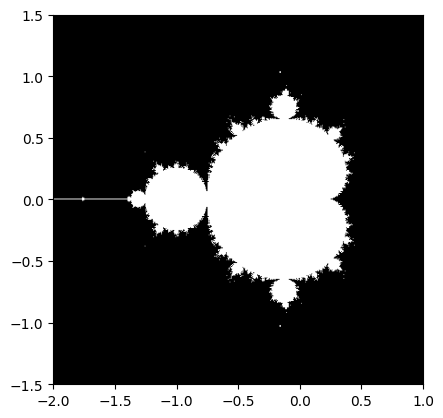
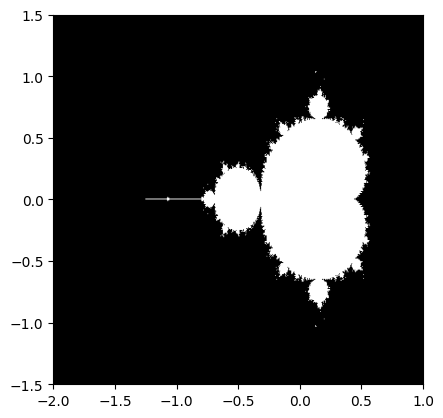
made me bigger

Changed region(s): [[0.1174, 0.2177, 0.851, 0.7464]]

diff --git a/public/notebooks/posts/post-a/index.html b/public/notebooks/posts/post-a/index.html
@@ -103,7 +103,7 @@
   "keywords": [
     
   ],
-  "articleBody": "Here, I compute the mendelbrot set. Source: https://scipy-lectures.org/intro/numpy/auto_examples/plot_mandelbrot.html\nimport numpy as np import matplotlib.pyplot as plt from numpy import newaxis def compute_mandelbrot(N_max, some_threshold, nx, ny): # A grid of c-values x = np.linspace(-2, 1, nx) y = np.linspace(-1.5, 1.5, ny) c = x[:,newaxis] + 1j*y[newaxis,:] # Mandelbrot iteration z = c for j in range(N_max): z = z**2 + c mandelbrot_set = (abs(z) \u003c some_threshold) return mandelbrot_set mandelbrot_set = compute_mandelbrot(50, 50., 601, 401) plt.imshow(mandelbrot_set.T, extent=[-2, 1, -1.5, 1.5]) plt.gray() plt.show() Console output (1/2):\n/var/folders/_w/fmxgjrxn3d7c7y4jpy6r65d00000gn/T/ipykernel_29120/2830912995.py:16: RuntimeWarning: overflow encountered in square z = z**2 + c /var/folders/_w/fmxgjrxn3d7c7y4jpy6r65d00000gn/T/ipykernel_29120/2830912995.py:16: RuntimeWarning: invalid value encountered in square z = z**2 + c Console output (2/2):\n",
+  "articleBody": "Here, I compute the mendelbrot set. Source: https://scipy-lectures.org/intro/numpy/auto_examples/plot_mandelbrot.html\nimport numpy as np import matplotlib.pyplot as plt from numpy import newaxis def compute_mandelbrot(N_max, some_threshold, nx, ny): # A grid of c-values x = np.linspace(-3, 1, nx) y = np.linspace(-1.5, 1.5, ny) c = x[:,newaxis] + 1j*y[newaxis,:] # Mandelbrot iteration z = c for j in range(N_max): z = z**2 + c mandelbrot_set = (abs(z) \u003c some_threshold) return mandelbrot_set mandelbrot_set = compute_mandelbrot(50, 50., 601, 401) plt.imshow(mandelbrot_set.T, extent=[-2, 1, -1.5, 1.5]) plt.gray() plt.show() Console output (1/2):\n/var/folders/_w/fmxgjrxn3d7c7y4jpy6r65d00000gn/T/ipykernel_39706/3854838847.py:16: RuntimeWarning: overflow encountered in square z = z**2 + c /var/folders/_w/fmxgjrxn3d7c7y4jpy6r65d00000gn/T/ipykernel_39706/3854838847.py:16: RuntimeWarning: invalid value encountered in square z = z**2 + c Console output (2/2):\n",
   "wordCount" : "109",
   "inLanguage": "en",
   "image": "http://localhost:1313/post-a/serialized/2-1.png","datePublished": "0001-01-01T00:00:00Z",
@@ -194,7 +194,7 @@
 </span></span><span style="display:flex;"><span>
 </span></span><span style="display:flex;"><span><span style="color:#66d9ef">def</span> <span style="color:#a6e22e">compute_mandelbrot</span>(N_max, some_threshold, nx, ny):
 </span></span><span style="display:flex;"><span>    <span style="color:#75715e"># A grid of c-values</span>
-</span></span><span style="display:flex;"><span>    x <span style="color:#f92672">=</span> np<span style="color:#f92672">.</span>linspace(<span style="color:#f92672">-</span><span style="color:#ae81ff">2</span>, <span style="color:#ae81ff">1</span>, nx)
+</span></span><span style="display:flex;"><span>    x <span style="color:#f92672">=</span> np<span style="color:#f92672">.</span>linspace(<span style="color:#f92672">-</span><span style="color:#ae81ff">3</span>, <span style="color:#ae81ff">1</span>, nx)
 </span></span><span style="display:flex;"><span>    y <span style="color:#f92672">=</span> np<span style="color:#f92672">.</span>linspace(<span style="color:#f92672">-</span><span style="color:#ae81ff">1.5</span>, <span style="color:#ae81ff">1.5</span>, ny)
 </span></span><span style="display:flex;"><span>
 </span></span><span style="display:flex;"><span>    c <span style="color:#f92672">=</span> x[:,newaxis] <span style="color:#f92672">+</span> <span style="color:#ae81ff">1</span>j<span style="color:#f92672">*</span>y[newaxis,:]
@@ -215,9 +215,9 @@
 </span></span><span style="display:flex;"><span>plt<span style="color:#f92672">.</span>show()
 </span></span></code></pre></div><!-- #region -->
 <p><strong>Console output (1/2):</strong></p>
-<div class="highlight"><pre tabindex="0" style="color:#f8f8f2;background-color:#272822;-moz-tab-size:4;-o-tab-size:4;tab-size:4;"><code class="language-txt" data-lang="txt"><span style="display:flex;"><span>/var/folders/_w/fmxgjrxn3d7c7y4jpy6r65d00000gn/T/ipykernel_29120/2830912995.py:16: RuntimeWarning: overflow encountered in square
+<div class="highlight"><pre tabindex="0" style="color:#f8f8f2;background-color:#272822;-moz-tab-size:4;-o-tab-size:4;tab-size:4;"><code class="language-txt" data-lang="txt"><span style="display:flex;"><span>/var/folders/_w/fmxgjrxn3d7c7y4jpy6r65d00000gn/T/ipykernel_39706/3854838847.py:16: RuntimeWarning: overflow encountered in square
 </span></span><span style="display:flex;"><span>  z = z**2 + c
-</span></span><span style="display:flex;"><span>/var/folders/_w/fmxgjrxn3d7c7y4jpy6r65d00000gn/T/ipykernel_29120/2830912995.py:16: RuntimeWarning: invalid value encountered in square
+</span></span><span style="display:flex;"><span>/var/folders/_w/fmxgjrxn3d7c7y4jpy6r65d00000gn/T/ipykernel_39706/3854838847.py:16: RuntimeWarning: invalid value encountered in square
 </span></span><span style="display:flex;"><span>  z = z**2 + c
 </span></span></code></pre></div><p><strong>Console output (2/2):</strong></p>
 <p><img loading="lazy" src="../../../post-a/serialized/2-1.png" alt="2-1"  />

diff --git a/public/dog/index.html b/public/dog/index.html
@@ -61,13 +61,11 @@
 <meta property="og:title" content="U&#43;1F415 is unicode for the dog emoji 🐕" />
 <meta property="og:description" content="" />
 <meta property="og:type" content="article" />
-<meta property="og:url" content="http://localhost:1313/dog/" />
-<meta property="og:image" content="http://localhost:1313/dogpic.png" /><meta property="article:section" content="" />
+<meta property="og:url" content="http://localhost:1313/dog/" /><meta property="article:section" content="" />
 
 
 
-<meta name="twitter:card" content="summary_large_image" />
-<meta name="twitter:image" content="http://localhost:1313/dogpic.png" />
+<meta name="twitter:card" content="summary"/>
 <meta name="twitter:title" content="U&#43;1F415 is unicode for the dog emoji 🐕"/>
 <meta name="twitter:description" content=""/>
 
@@ -99,7 +97,7 @@
   "articleBody": "",
   "wordCount" : "0",
   "inLanguage": "en",
-  "image":"http://localhost:1313/dogpic.png","datePublished": "0001-01-01T00:00:00Z",
+  "datePublished": "0001-01-01T00:00:00Z",
   "dateModified": "0001-01-01T00:00:00Z",
   "mainEntityOfPage": {
     "@type": "WebPage",
@@ -177,12 +175,6 @@
 
 </div>
   </header> 
-<figure class="entry-cover">
-        <img loading="eager" srcset="http://localhost:1313/dog/dogpic_hu4419030919382709101.png 360w ,http://localhost:1313/dog/dogpic.png 443w" 
-            sizes="(min-width: 768px) 720px, 100vw" src="http://localhost:1313/dog/dogpic.png" alt="" 
-            width="443" height="605">
-        
-</figure>
 
   <footer class="post-footer">
     <ul class="post-tags">

diff --git a/public/notebooks/index.html b/public/notebooks/index.html
@@ -147,7 +147,7 @@
   </header>
   <div class="entry-content">
     <p>Here, I compute the mendelbrot set. Source: https://scipy-lectures.org/intro/numpy/auto_examples/plot_mandelbrot.html
-import numpy as np import matplotlib.pyplot as plt from numpy import newaxis def compute_mandelbrot(N_max, some_threshold, nx, ny): # A grid of c-values x = np.linspace(-2, 1, nx) y = np.linspace(-1.5, 1.5, ny) c = x[:,newaxis] &#43; 1j*y[newaxis,:] # Mandelbrot iteration z = c for j in range(N_max): z = z**2 &#43; c mandelbrot_set = (abs(z) &lt; some_threshold) return mandelbrot_set mandelbrot_set = compute_mandelbrot(50, 50....</p>
+import numpy as np import matplotlib.pyplot as plt from numpy import newaxis def compute_mandelbrot(N_max, some_threshold, nx, ny): # A grid of c-values x = np.linspace(-3, 1, nx) y = np.linspace(-1.5, 1.5, ny) c = x[:,newaxis] &#43; 1j*y[newaxis,:] # Mandelbrot iteration z = c for j in range(N_max): z = z**2 &#43; c mandelbrot_set = (abs(z) &lt; some_threshold) return mandelbrot_set mandelbrot_set = compute_mandelbrot(50, 50....</p>
   </div>
   <footer class="entry-footer"></footer>
   <a class="entry-link" aria-label="post link to My post" href="http://localhost:1313/notebooks/posts/post-a/"></a>

diff --git a/public/index.html b/public/index.html
@@ -135,7 +135,7 @@
 <main class="main"><div class="profile">
     <div class="profile_inner">
         <img draggable="false" src="http://localhost:1313/image.png" alt="Me!" title="Me!"
-            height="150" width="150" />
+            height="200" width="200" />
         <h1>Thomas Bolf</h1>
         <span>Mathematics and Computer Science Student</span><div class="social-icons" >
     <a href="https://github.com/thomasbolf" target="_blank" rel="noopener noreferrer me"

diff --git a/content/notebooks/posts/post-a.md b/content/notebooks/posts/post-a.md
@@ -29,7 +29,7 @@ from numpy import newaxis
 
 def compute_mandelbrot(N_max, some_threshold, nx, ny):
     # A grid of c-values
-    x = np.linspace(-2, 1, nx)
+    x = np.linspace(-3, 1, nx)
     y = np.linspace(-1.5, 1.5, ny)
 
     c = x[:,newaxis] + 1j*y[newaxis,:]
@@ -56,9 +56,9 @@ plt.show()
 **Console output (1/2):**
 
 ```txt
-/var/folders/_w/fmxgjrxn3d7c7y4jpy6r65d00000gn/T/ipykernel_29120/2830912995.py:16: RuntimeWarning: overflow encountered in square
+/var/folders/_w/fmxgjrxn3d7c7y4jpy6r65d00000gn/T/ipykernel_39706/3854838847.py:16: RuntimeWarning: overflow encountered in square
   z = z**2 + c
-/var/folders/_w/fmxgjrxn3d7c7y4jpy6r65d00000gn/T/ipykernel_29120/2830912995.py:16: RuntimeWarning: invalid value encountered in square
+/var/folders/_w/fmxgjrxn3d7c7y4jpy6r65d00000gn/T/ipykernel_39706/3854838847.py:16: RuntimeWarning: invalid value encountered in square
   z = z**2 + c
 ```
 

diff --git a/content/dog/index.md b/content/dog/index.md
@@ -2,9 +2,9 @@
 title: "U+1F415 is unicode for the dog emoji 🐕"
 #put small image
 cover:
-    image: dogpic.png
-    imageWidth: 160
-    imageHeight: 160
+    imageUrl: "dogpic.png"
+    imageWidth: 400
+    imageHeight: 400
 #insert small image below
 
     
